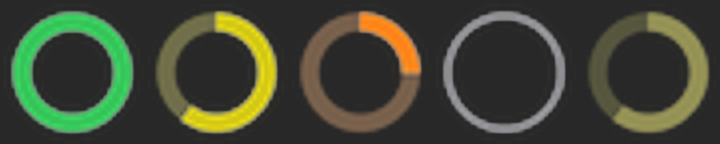
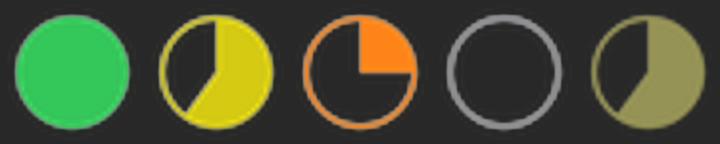
Filled pie, 14pt on 18pt canvas @2x

diff --git a/quota.5m.py b/quota.5m.py
@@ -22,24 +22,27 @@ def color_for(rem):
     return lerp(RED, YELLOW, f / 0.5) if f < 0.5 else lerp(YELLOW, GREEN, (f - 0.5) / 0.5)
 
 def ring_png(rem, dim=False, size=36):
+    """Filled pie, 14pt diameter on an 18pt canvas, drawn at 2x (36px, 144 dpi)."""
     from PIL import Image, ImageDraw
-    S = size * 4  # supersample
+    k = 8; S = size * k
     img = Image.new("RGBA", (S, S), (0, 0, 0, 0))
     d = ImageDraw.Draw(img)
-    w = int(S * 0.13); pad = w // 2 + 4
-    box = [pad, pad, S - pad, S - pad]
+    r = 14 * k  # 14pt diameter at 2x = 28px -> radius 14px
+    c0 = S // 2
+    box = [c0 - r, c0 - r, c0 + r, c0 + r]
     alpha = 110 if dim else 255
+    line = max(1, int(1.2 * k))  # ~0.6pt outline
     if rem is None or rem <= 0:
-        d.ellipse(box, outline=GRAY + (alpha,), width=max(4, w // 3))
+        d.ellipse(box, outline=GRAY + (alpha,), width=line)
     else:
         c = color_for(rem)
-        d.ellipse(box, outline=c + (60 if not dim else 35,), width=w)  # faint track
         if rem >= 99.5:
-            d.ellipse(box, outline=c + (alpha,), width=w)
+            d.ellipse(box, fill=c + (alpha,))
         else:
-            d.arc(box, -90, -90 + 360 * rem / 100.0, fill=c + (alpha,), width=w)
+            d.pieslice(box, -90, -90 + 360 * rem / 100.0, fill=c + (alpha,))
+        d.ellipse(box, outline=c + (alpha,), width=line)
     img = img.resize((size, size), Image.LANCZOS)
-    buf = io.BytesIO(); img.save(buf, "PNG"); return buf.getvalue()
+    buf = io.BytesIO(); img.save(buf, "PNG", dpi=(144, 144)); return buf.getvalue()
 
 def keychain_cookie():
     try:

diff --git a/README.md b/README.md
@@ -1,10 +1,10 @@
 # grokbot-quota-ring
 
-A [SwiftBar](https://github.com/swiftbar/SwiftBar) plugin that shows your remaining Grok Bot weekly quota as a ring in the macOS menu bar. It shows no text or percentage in the bar itself.
+A [SwiftBar](https://github.com/swiftbar/SwiftBar) plugin that shows your remaining Grok Bot weekly quota as a small filled pie in the macOS menu bar. It shows no text or percentage in the bar itself.
 
-- Full green ring = full quota; the ring shortens and shifts green → yellow → red as quota drains.
+- Full green disc = full quota; the pie (clockwise from 12 o'clock) shrinks and shifts green → yellow → red as quota drains.
 - Empty gray outline = no quota (or not authorized yet).
-- Dimmed ring = last fetch failed; the dropdown shows the last value and when it was fetched.
+- Dimmed pie = last fetch failed; the dropdown shows the last value and when it was fetched.
 - Dropdown: remaining %, reset time, refresh, link to the usage page.
 
 ## Install
